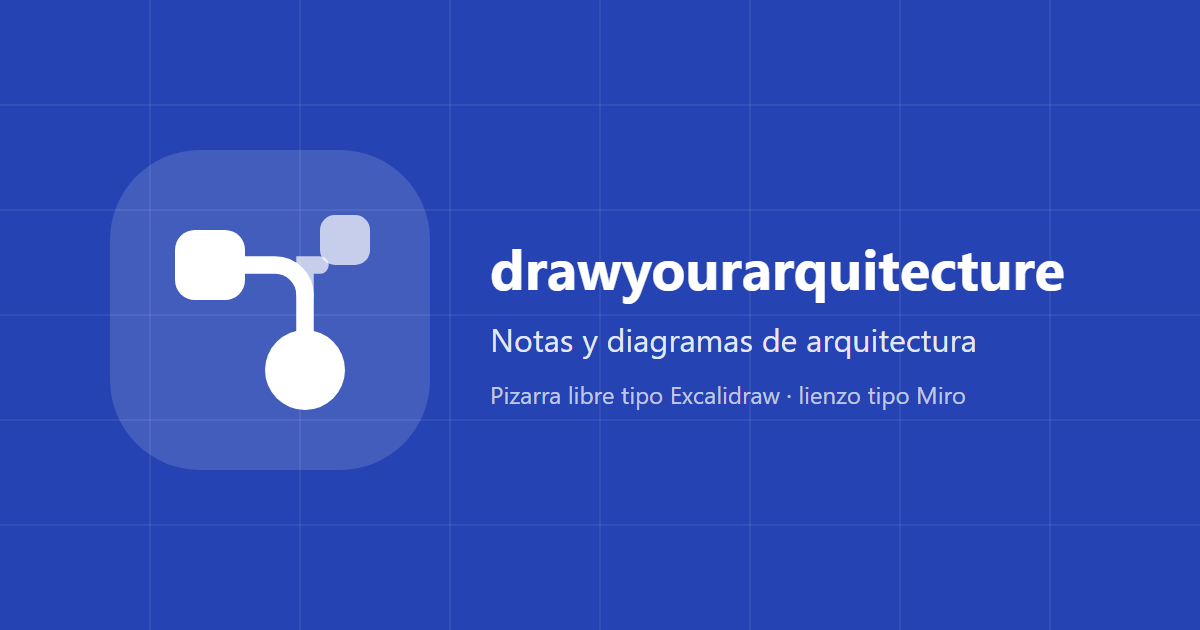
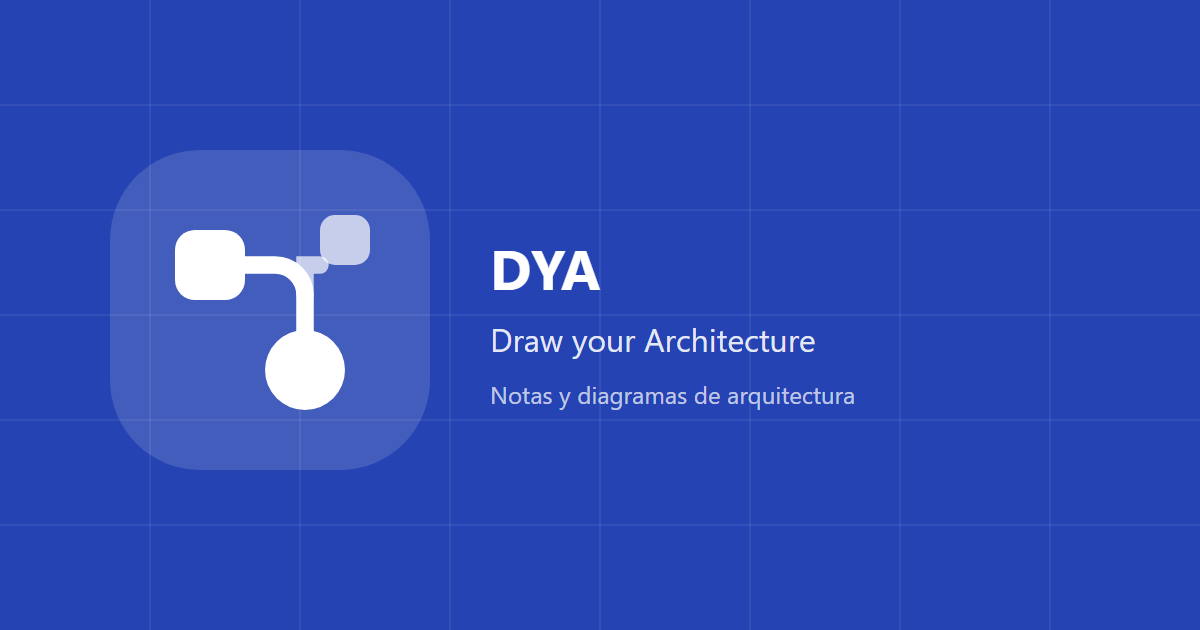
feat(app): renombrar la app a DYA (Draw your Architecture)
Marca de la cabecera, inicio de sesión, visor, título y Open Graph (imagen regenerada, ahora servida desde dya.juandgaitan.com) y nombre del servidor MCP. El repositorio y los proyectos de Firebase y Vercel conservan su nombre.

Changed region(s): [[0.4008, 0.3921, 0.8942, 0.4825], [0.4008, 0.5127, 0.8325, 0.573], [0.4008, 0.6032, 0.8017, 0.6635]]

diff --git a/index.html b/index.html
@@ -3,7 +3,7 @@
   <head>
     <meta charset="UTF-8" />
     <meta name="viewport" content="width=device-width, initial-scale=1.0" />
-    <title>drawyourarquitecture · notas y diagramas de arquitectura</title>
+    <title>DYA · Draw your Architecture</title>
     <meta
       name="description"
       content="Pizarra libre tipo Excalidraw y diagramas de arquitectura tipo Miro, en un solo lugar."
@@ -14,18 +14,18 @@
 
     <!-- Open Graph genérico (las vistas públicas añaden noindex al montarse) -->
     <meta property="og:type" content="website" />
-    <meta property="og:site_name" content="drawyourarquitecture" />
-    <meta property="og:title" content="drawyourarquitecture · notas y diagramas de arquitectura" />
+    <meta property="og:site_name" content="DYA" />
+    <meta property="og:title" content="DYA · Draw your Architecture" />
     <meta
       property="og:description"
       content="Pizarra libre tipo Excalidraw y diagramas de arquitectura tipo Miro, en un solo lugar."
     />
     <meta property="og:locale" content="es_ES" />
-    <meta property="og:image" content="https://drawyourarchitecture.vercel.app/og-image.png" />
+    <meta property="og:image" content="https://dya.juandgaitan.com/og-image.png" />
     <meta property="og:image:type" content="image/png" />
     <meta property="og:image:width" content="1200" />
     <meta property="og:image:height" content="630" />
-    <meta property="og:image:alt" content="drawyourarquitecture: notas y diagramas de arquitectura" />
+    <meta property="og:image:alt" content="DYA (Draw your Architecture): notas y diagramas de arquitectura" />
     <meta name="twitter:card" content="summary_large_image" />
 
     <!-- Aplica el tema guardado antes de pintar para evitar el parpadeo claro → oscuro -->

diff --git a/src/app/viewer/Viewer.tsx b/src/app/viewer/Viewer.tsx
@@ -28,7 +28,7 @@ export function Viewer({ type, id }: { type: ProjectType; id: string }) {
   useEffect(() => {
     if (!title) return;
     const prev = document.title;
-    document.title = `${title} · drawyourarquitecture`;
+    document.title = `${title} · DYA`;
     return () => {
       document.title = prev;
     };
@@ -43,7 +43,7 @@ export function Viewer({ type, id }: { type: ProjectType; id: string }) {
   return (
     <div className={styles.viewer}>
       <header className={styles.header}>
-        <Link href="/" className={styles.brand} aria-label="drawyourarquitecture, ir al inicio">
+        <Link href="/" className={styles.brand} aria-label="DYA (Draw your Architecture), ir al inicio">
           <LogoMark size={24} />
         </Link>
         <h1 className={styles.projectTitle}>{project.title}</h1>

diff --git a/src/app/shell/Shell.tsx b/src/app/shell/Shell.tsx
@@ -62,9 +62,9 @@ export function Shell({ children }: { children: ReactNode }) {
   return (
     <div className={styles.shell}>
       <header className={styles.header}>
-        <Link href="/" className={styles.brand} aria-label="drawyourarquitecture, ir al panel">
+        <Link href="/" className={styles.brand} aria-label="DYA (Draw your Architecture), ir al panel">
           <LogoMark />
-          <span className={styles.wordmark}>drawyourarquitecture</span>
+          <span className={styles.wordmark}>DYA</span>
         </Link>
         <div className={styles.actions}>
           <ThemeToggle />

diff --git a/src/app/LoginScreen.tsx b/src/app/LoginScreen.tsx
@@ -114,9 +114,9 @@ export function LoginScreen() {
         <Diagram />
         <div className={styles.brand}>
           <LogoMark size={36} />
-          <h1 className={styles.title}>drawyourarquitecture</h1>
+          <h1 className={styles.title}>DYA</h1>
         </div>
-        <p className={styles.lead}>Notas libres y diagramas de arquitectura, en un solo lugar.</p>
+        <p className={styles.lead}>Draw your Architecture: notas libres y diagramas de arquitectura, en un solo lugar.</p>
 
         {!isFirebaseConfigured ? (
           <div className={styles.notice} role="alert">

diff --git a/src/server/mcpServer.ts b/src/server/mcpServer.ts
@@ -58,7 +58,7 @@ const mermaid = z
 /** Un servidor por petición (transporte sin estado): las herramientas quedan ligadas al uid autenticado. */
 export function createMcpServer(mcp: McpContext): McpServer {
   const ctx: ToolContext = { db: mcp.db, uid: mcp.identity.uid };
-  const server = new McpServer({ name: 'drawyourarchitecture', version: '0.1.0' });
+  const server = new McpServer({ name: 'dya', version: '0.1.0' });
 
   server.registerTool(
     'list_projects',

diff --git a/src/server/handler.ts b/src/server/handler.ts
@@ -64,7 +64,7 @@ export async function handler(req: IncomingMessage & { body?: unknown }, res: Se
         e.status,
         e.message,
         e.status === 401
-          ? { 'WWW-Authenticate': 'Bearer realm="drawyourarchitecture"' }
+          ? { 'WWW-Authenticate': 'Bearer realm="dya"' }
           : e.status === 429
             ? { 'Retry-After': String(e.retryAfter ?? 60) }
             : {},

diff --git a/src/app/viewer/ViewerMessage.tsx b/src/app/viewer/ViewerMessage.tsx
@@ -21,7 +21,7 @@ export function MissingMessage({ compact, text = 'No existe o es privado' }: Pro
       </p>
       {compact ? null : (
         <Link href="/" className={styles.link}>
-          Ir a drawyourarquitecture
+          Ir a DYA
         </Link>
       )}
     </div>
